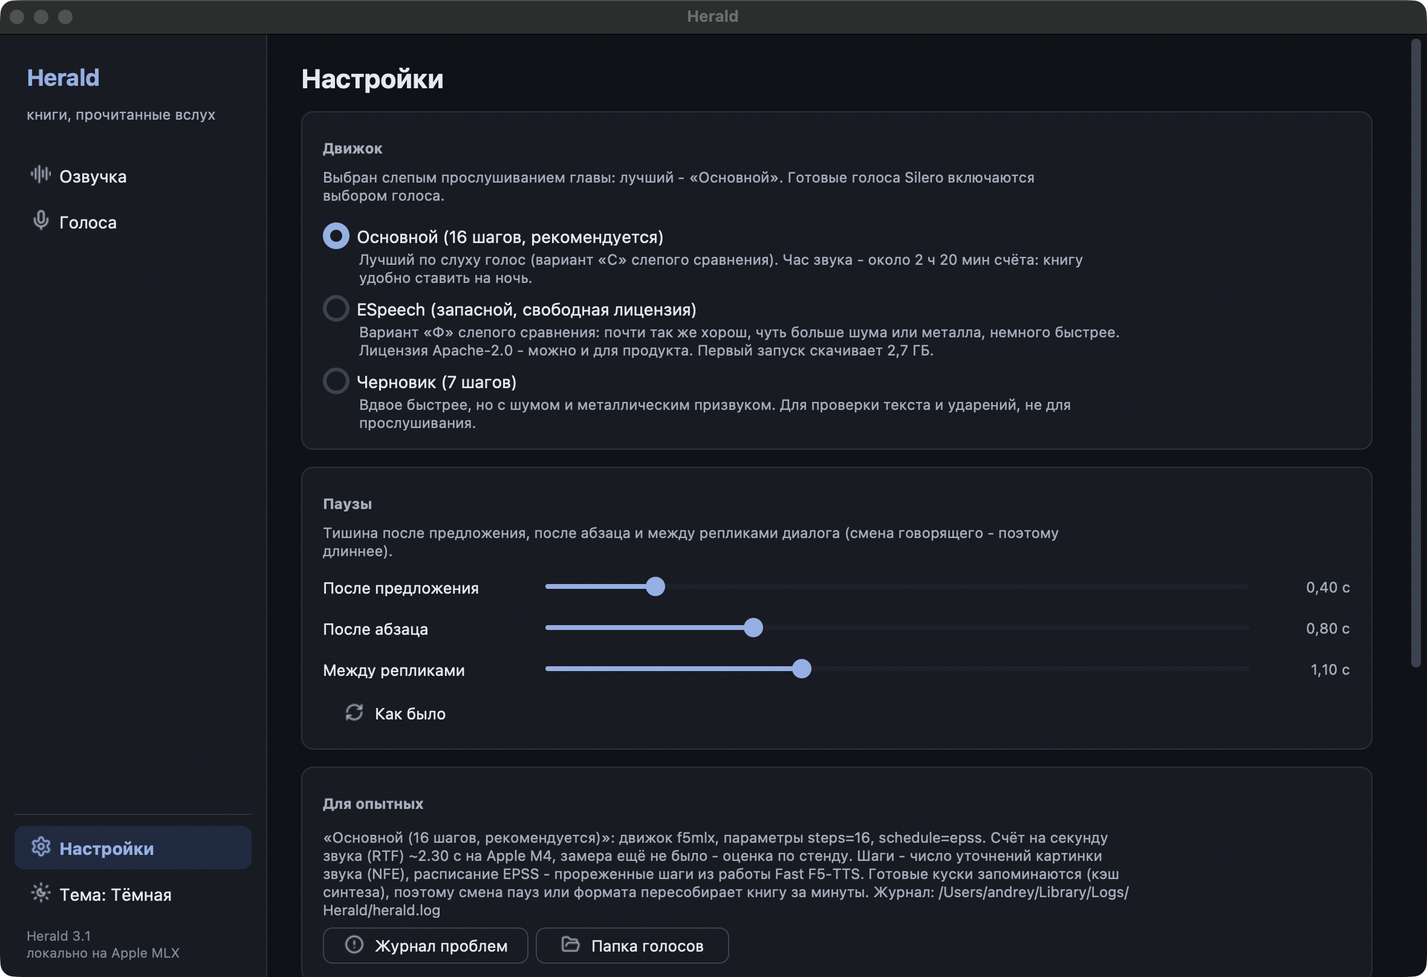
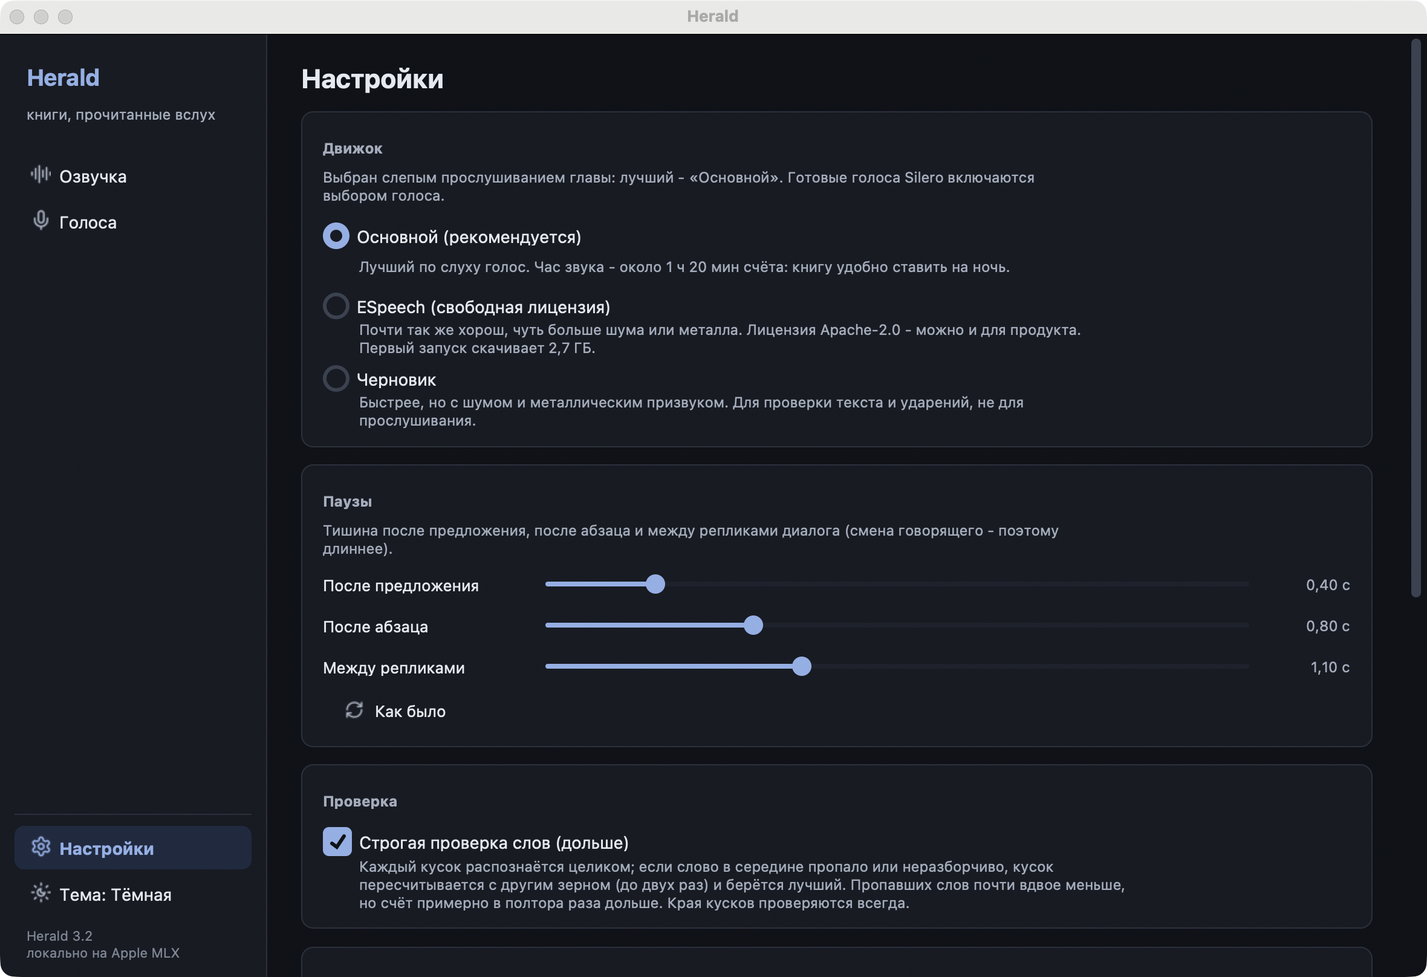
3.2: кодировка UTF-8 в файлах образца и ffmpeg (Windows), режим UTF-8 в сборке; надписи по системе; пара ESpeech

diff --git a/Инструменты разработки/test_endings.py b/Инструменты разработки/test_endings.py
@@ -51,18 +51,31 @@ SR = 24000
 
 
 def heard_words(audio: np.ndarray) -> list[str]:
-    import mlx_whisper
+    """Судья - Whisper large-v3-turbo (core/asr: MLX на Mac, faster-whisper иначе)."""
     import soundfile as sf
+    from core import asr
     from core.pipeline import _words
     with tempfile.NamedTemporaryFile(suffix=".wav", delete=False) as f:
         sf.write(f.name, audio, SR)
     try:
-        with contextlib.redirect_stdout(io.StringIO()):
-            r = mlx_whisper.transcribe(f.name, path_or_hf_repo=JUDGE, language="ru",
-                                       verbose=False, condition_on_previous_text=False)
+        r = asr.transcribe(f.name, "turbo", language="ru")
     finally:
         os.unlink(f.name)
     return _words(r["text"])
+
+
+def seed(n: int) -> None:
+    """Зерно случайности для движка этого компьютера (MLX или torch)."""
+    try:
+        import mlx.core as mx
+        mx.random.seed(n)
+    except ImportError:
+        pass
+    try:
+        import torch
+        torch.manual_seed(n)
+    except ImportError:
+        pass
 
 
 def old_rms_end(wave: np.ndarray) -> int:
@@ -98,7 +111,6 @@ def main() -> int:
     ap = argparse.ArgumentParser()
     ap.add_argument("--seeds", type=int, default=3)
     a = ap.parse_args()
-    import mlx.core as mx
     import core.engines.f5_mlx as F
     from core.engines import get_engine
     from core.pipeline import _prepare_text, _synth_chunks, _ends_like, _with_end_punct, _words
@@ -121,12 +133,12 @@ def main() -> int:
     for phrase, text in cases:
         stressed = _with_end_punct(_prepare_text(text, "+", True, True, "ru"))
         want = _words(phrase)[-1]
-        for seed in range(a.seeds):
-            mx.random.seed(100 + seed)
+        for sd in range(a.seeds):
+            seed(100 + sd)
             raw_store.clear()
             audio = eng.synth_chunk(stressed, VOICE)
             raw = raw_store[-1]
-            tag = f"«{text}» зерно {seed}"
+            tag = f"«{text}» зерно {sd}"
             se = speech_end(audio, SR)
             if se is None:
                 fails.append(f"{tag}: речи не найдено")
@@ -150,7 +162,7 @@ def main() -> int:
             ok = _ends_like(want, got)
             raw_ok += ok
             # итог конвейера: та же фраза так, как она попадёт в книгу
-            mx.random.seed(100 + seed)
+            seed(100 + sd)
             final = _synth_chunks(eng, VOICE, [(text, 0.3, 1.0)], SR, 0.3, use_cache=False)
             fgot = heard_words(final)
             fok = _ends_like(want, fgot)

diff --git a/tts_gui.py b/tts_gui.py
@@ -354,7 +354,7 @@ class App(ctk.CTk, tkinterdnd2.TkinterDnD.DnDWrapper):
         self.theme_btn.configure(command=self._cycle_theme)
         self.theme_btn.pack(fill="x", pady=1)
         self._theme_label()
-        T.label(bottom, f"{APP_NAME} {VERSION}\nлокально на Apple MLX", 11, color=T.FAINT,
+        T.label(bottom, f"{APP_NAME} {VERSION}\nлокально {osutil.HERE}", 11, color=T.FAINT,
                 anchor="w", justify="left").pack(fill="x", padx=10, pady=(8, 0))
 
     def _nav_btn(self, parent, text, ic, key):
@@ -423,8 +423,8 @@ class App(ctk.CTk, tkinterdnd2.TkinterDnD.DnDWrapper):
         head = ctk.CTkFrame(page, fg_color="transparent")
         head.grid(row=0, column=0, columnspan=2, sticky="ew", padx=28, pady=(22, 14))
         T.label(head, "Озвучка", 22, bold=True, anchor="w").pack(fill="x")
-        T.label(head, "Книга - в аудиокнигу голосом выбранного диктора. Всё считается на "
-                      "этом Mac; части появляются рядом с книгой по мере готовности.",
+        T.label(head, "Книга - в аудиокнигу голосом выбранного диктора. Всё считается "
+                      f"{osutil.HERE}; части появляются рядом с книгой по мере готовности.",
                 13, color=T.MUTED, anchor="w").pack(fill="x", pady=(2, 0))
 
         left = ctk.CTkFrame(page, fg_color="transparent")
@@ -844,8 +844,9 @@ class App(ctk.CTk, tkinterdnd2.TkinterDnD.DnDWrapper):
             self.nv_box.pack(fill="x", before=self.tech_label)
         if accel == "cpu":
             self.accel_hint.configure(
-                text="Считается на процессоре: книга - сутки и больше. Быстро на "
-                     "процессоре работают готовые голоса Silero (страница «Голоса»).",
+                text="Считается на процессоре: час звука - около суток счёта, книга - "
+                     "несколько суток. Быстро на процессоре работают готовые голоса "
+                     "Silero (страница «Голоса»).",
                 text_color=T.WARN)
         else:
             self.accel_hint.configure(text="Считается: " + profiles.ACCEL_TITLE.get(accel, accel),

diff --git a/Инструменты разработки/bench_speed.py b/Инструменты разработки/bench_speed.py
@@ -32,9 +32,10 @@ def main() -> int:
     ap.add_argument("--chunks", type=int, default=12)
     ap.add_argument("--batch", type=int, default=1)
     ap.add_argument("--no-pipeline", action="store_true")
-    ap.add_argument("--steps", type=int, default=16)
+    ap.add_argument("--steps", type=int, default=12)
     ap.add_argument("--voice", default="Вячеслав Герасимов")
     ap.add_argument("--out", default=None, help="сохранить звук (wav)")
+    ap.add_argument("--no-strict", action="store_true", help="без строгой проверки слов (как 3.1)")
     ap.add_argument("--no-retries", action="store_true",
                     help="без переозвучек: они случайны и забивают разницу в скорости")
     a = ap.parse_args()
@@ -46,7 +47,8 @@ def main() -> int:
     if a.no_retries:
         P.TAIL_RETRIES = 0
 
-    eng = get_engine("f5mlx", language="ru", steps=a.steps, schedule="epss")
+    from core.engines import clone_engine
+    eng = get_engine(clone_engine(), language="ru", steps=a.steps, schedule="epss")
     eng.ensure_loaded()
     if a.chunks_json:
         ch = [tuple(c) for c in json.load(open(a.chunks_json, encoding="utf-8"))][:a.chunks]
@@ -58,11 +60,12 @@ def main() -> int:
     st: dict = {}
     t0 = time.time()
     audio = _synth_chunks(eng, a.voice, ch, 24000, 0.4, use_cache=False, stats=st,
-                          batch_size=a.batch, pipelined=not a.no_pipeline)
+                          batch_size=a.batch, pipelined=not a.no_pipeline,
+                          strict_words=not a.no_strict)
     dt = time.time() - t0
     if a.out:
         sf.write(a.out, audio, 24000)
-    res = {"пачка": a.batch, "упреждение": not a.no_pipeline, "шаги": a.steps,
+    res = {"строгая_проверка": not a.no_strict, "пачка": a.batch, "упреждение": not a.no_pipeline, "шаги": a.steps,
            "голос": a.voice, "кусков": len(ch), "звук_с": round(st["fresh_sec"], 1),
            "счёт_с": round(dt, 1), "RTF": round(dt / max(st["fresh_sec"], 1e-6), 3),
            "переозвучек": st["retries"]}

diff --git a/core/engines/f5_torch.py b/core/engines/f5_torch.py
@@ -21,8 +21,9 @@ import os
 
 import numpy as np
 
+from . import f5_mlx as _m
 from .f5_mlx import (F5MLXEngine, LANG_MODELS, SAMPLE_RATE, HOP_LENGTH, CFG_STRENGTH,
-                     TAIL_ANCHOR_SEC, TARGET_RMS, _finish_tail, preprocess_ref_audio,
+                     TAIL_ANCHOR_SEC, TARGET_RMS, preprocess_ref_audio,
                      _ref_text_for_model, convert_char_to_tokens, timesteps)
 
 VOCOS_REPO = "charactr/vocos-mel-24khz"
@@ -136,7 +137,8 @@ class F5TorchEngine(F5MLXEngine):
                 mel, n = self._sample_mel_torch(audio, tokens, dur, tail)
                 m = mel[:, ref_frames:n, :]
                 wave = self._vocoder.decode(m.permute(0, 2, 1).float())
-                out.append(_finish_tail(wave.detach().cpu().numpy().astype(np.float32).reshape(-1)))
+                # через модуль, а не по имени: тест окончаний подменяет _finish_tail
+                out.append(_m._finish_tail(wave.detach().cpu().numpy().astype(np.float32).reshape(-1)))
         return out
 
     def _sample_mel_torch(self, audio, tokens: list[str], duration: int, tail: int,

diff --git a/core/engines/f5.py b/core/engines/f5.py
@@ -166,7 +166,7 @@ class F5Engine(TTSEngine):
         ref_text = (ref_text or "").strip()
         if ref_text and ref_text[-1] not in ".!?…":
             ref_text += "."
-        open(txt_out, "w").write(ref_text)
+        open(txt_out, "w", encoding="utf-8").write(ref_text)
         self._save_source(name, audio_path)
         return name
 
@@ -691,7 +691,7 @@ class F5Engine(TTSEngine):
         txt = os.path.join(self.voices_dir, vid + ".txt")
         if not os.path.isfile(wav):
             raise ValueError(f"Образец голоса не найден: {vid}. Сначала загрузите образец.")
-        ref_text = open(txt).read().strip() if os.path.isfile(txt) else ""
+        ref_text = open(txt, encoding="utf-8").read().strip() if os.path.isfile(txt) else ""
         return vid, wav, ref_text
 
     # --- синтез ---------------------------------------------------------

diff --git a/core/profiles.py b/core/profiles.py
@@ -58,7 +58,8 @@ SILERO = Profile("silero", "Готовые голоса Silero", "silero", {}, r
 
 
 # Во сколько раз медленнее, чем на Apple M4 (MLX), на других вычислителях.
-# cpu - замер в Docker (Linux, 4 ядра M4, см. docs/Приёмка 3.2); cuda - оценка:
+# cpu - замер на раннерах GitHub (4 ядра): клон F5 RTF 15-22 вместе с загрузкой
+# моделей, см. docs/Приёмка 3.2; cuda - оценка:
 # на видеокарте NVIDIA класса RTX 3060 F5 считает примерно как M4 (не проверено -
 # на раннерах и у нас видеокарты нет). Окно показывает прогноз по этим числам,
 # а после первой части - по настоящему замеру.

diff --git a/core/assemble.py b/core/assemble.py
@@ -171,11 +171,11 @@ def assemble_m4b(chapters: list[RenderedChapter], out_path: str, *,
     try:
         # список для concat-демуксера
         listfile = os.path.join(workdir, "list.txt")
-        with open(listfile, "w") as f:
+        with open(listfile, "w", encoding="utf-8") as f:
             for ch in chapters:
                 f.write(f"file '{ch.wav_path}'\n")
         metafile = os.path.join(workdir, "meta.txt")
-        with open(metafile, "w") as f:
+        with open(metafile, "w", encoding="utf-8") as f:
             f.write(_ffmetadata(chapters, title, author))
         cover = _prepare_cover(cover_bytes, cover_ext, title, author, workdir)
 

diff --git a/Инструменты разработки/test_gui.py b/Инструменты разработки/test_gui.py
@@ -246,7 +246,7 @@ def main() -> int:
     def accel():
         app._show_accel("cpu")
         t = app.accel_hint.cget("text")
-        must("сутки" in t and "Silero" in t, t)
+        must("суток" in t and "Silero" in t, t)
         wait_cpu = app._rtf()
         app._show_accel("mlx")
         must("Apple" in app.accel_hint.cget("text"), app.accel_hint.cget("text"))

diff --git a/docs/Приёмка 3.2.md b/docs/Приёмка 3.2.md
@@ -1,0 +1,98 @@
+# Приёмка Herald 3.2
+
+По заданию `docs/04. Задание для Claude Code - Herald 3.2.md`. Mac - Apple M4
+16 ГБ, голос Вячеслава (образец «К»). Тяжёлые шаги (синтез, распознавание,
+замеры, Docker) шли только под общим замком `../.heavy-lock` - параллельно
+работали Scribe и Legal Knowledge Desk. ЗАМОК_ЗАМЕТКА
+
+## Что послушать
+
+| папка | что | что решить |
+|---|---|---|
+| `Сравнение 3.2 - слова/` | «Было (3.1)» и «Стало (3.2)»: «вернётся», «и огляделся», «Давай блок» | стало ли разборчивее |
+| `Сравнение 3.2 - ESpeech/` | вслепую: ESpeech на 16 и на 12 шагах | есть ли разница на слух |
+
+Ключ к ESpeech - `docs/ключ 3.2 - ESpeech (не открывать до оценки).md`.
+
+## Часть 1. Звук
+
+### 1.1. 12 шагов по умолчанию
+
+- Основной движок (Misha) - **12 шагов**, по вашему выбору 15.10. Счёт на 25 %
+  быстрее: RTF 1,36 против 1,80 на 16 шагах (без проверки слов).
+- В Настройках названия без цифр: «Основной (рекомендуется)», «ESpeech
+  (свободная лицензия)», «Черновик».
+- ESpeech: оставлен на 16 шагах до вашего прослушивания пары 12/16
+  (`Сравнение 3.2 - ESpeech/`). Если на слух не отличить - переведу на 12.
+- Прогноз «ждать около» запоминается отдельно для числа шагов, вычислителя и
+  строгой проверки: старый замер для 16 шагов не путает новый.
+
+### 1.2. Ударения «скользя», «выхватил», «логично»
+
+Проверил весь путь текста до модели на той же главе. **Во всех трёх местах знак
+«+» верный** - и в словаре RUAccent, и в куске, который ушёл в модель:
+
+| слово | словарь RUAccent | в куске, отданном модели |
+|---|---|---|
+| скользя | скольз+я | «…соглас+ился пил+от, скольз+я взгл+ядом…» |
+| выхватил | в+ыхватил | «…и пил+от в+ыхватил с держ+ателей…» |
+| логично | лог+ично | «- Лог+ично, - соглас+ился пил+от…» |
+
+Значит, это **модель не послушалась верного знака** (то же, что род (б) в 3.0:
+«замОк», «мУку») - свойство модели F5 Misha, а не ошибка текста. Общего лечения
+нет; словарей под слова не делал.
+
+### 1.3. Неразборчивые и пропавшие слова в середине куска
+
+Сделана **строгая проверка всего куска**: кусок распознаётся целиком (Whisper
+large-v3-turbo, язык известен), слова выравниваются с текстом, и каждое
+словарное слово от 4 букв сверяется **по последним буквам** (урок 3.1:
+распознаватель дописывает обрубленное по смыслу). Пропало или искажено - кусок
+пересчитывается с другим зерном, до двух раз, затем берётся дубль с наименьшим
+числом неверных слов. Выдуманные имена книги («Экстервит») не сверяются - их
+нет в словаре, и распознаватель пишет их как попало (иначе каждый кусок с
+именем пересчитывался бы впустую). Края куска проверяются как прежде.
+
+Замер (отрывок главы 4 мин + диалог + тестовый диалог, одно зерно; судья -
+Whisper large-v3, НЕ turbo, чтобы не мерить проверку ею же):
+
+| | было (3.1) | стало (3.2) |
+|---|---|---|
+| пропавших или искажённых слов по судье | **9** | **5** |
+| - отрывок главы | 4 | 5 |
+| - диалог («…что он вернётся?») | 3, в т.ч. «вернётся» | 0 |
+| - тестовый диалог («и огляделся») | 2, в т.ч. «огляделся» | 0 |
+| кусков с пересинтезом | 1 из 21 | 6 из 21 |
+| счёт (RTF) | 1,53 | 2,48 (**+62 %**) |
+
+Прибавка больше 20 %, поэтому проверка - **настройка «Строгая проверка слов
+(дольше)»**, по умолчанию включена (Настройки → «Проверка»). Честно: в главе
+выигрыша нет (4 -> 5, слова другие - «запорное устройство», «сетчатку»), он
+весь в диалогах. Решение за вашим слухом: `Сравнение 3.2 - слова/`.
+
+## Часть 2. Окно
+
+- **Одна кнопка папки у части**: «В Finder» (на Windows и Linux - «В папке»)
+  справа, рядом со «Слушать» и плеером. Кнопка «Папка» над списком частей
+  убрана.
+- Другие дубли того же рода: «Папка голосов» в Настройках дублировала «Папку»
+  на странице «Голоса» - убрана. Больше одинаковых действий в двух местах не
+  нашёл (журнал - только в Настройках, «Добавить образец» - только в Голосах).
+- Тест окна: у части ровно одна кнопка кроме «Слушать», в шапке списка и в
+  Настройках дублей нет.
+
+## Часть 3. Windows и Linux
+
+ЧАСТЬ3_ЗДЕСЬ
+
+## Проверки на Mac после всех правок
+
+ПРОВЕРКИ_ЗДЕСЬ
+
+## Что осталось
+
+- Ваш слух: `Сравнение 3.2 - слова/` и `Сравнение 3.2 - ESpeech/`.
+- Окно и звук на настоящей Windows, видеокарта NVIDIA - не проверены: чек-лист
+  `docs/Чек-лист Windows 3.2.md`.
+- Офлайн-пакета моделей нет: модели качаются при первом запуске (~3 ГБ).
+- Ударения рода (б) - свойство модели.

diff --git a/docs/ключ 3.2 - ESpeech (не открывать до оценки).md b/docs/ключ 3.2 - ESpeech (не открывать до оценки).md
@@ -1,0 +1,8 @@
+# Ключ: ESpeech: 16 или 12 шагов - НЕ ОТКРЫВАТЬ ДО ОЦЕНКИ
+
+| буква | что |
+|---|---|
+| О | ESpeech, 12 шагов (счёт на ~25 % быстрее) |
+| С | ESpeech, 16 шагов (как сейчас) |
+
+Один отрывок главы «Жажды власти» (~4 мин), голос Вячеслава (образец К), движок ESpeech (запасной, свободная лицензия). Отличается только число шагов. Если на слух не отличить - ESpeech тоже переводим на 12 шагов.
